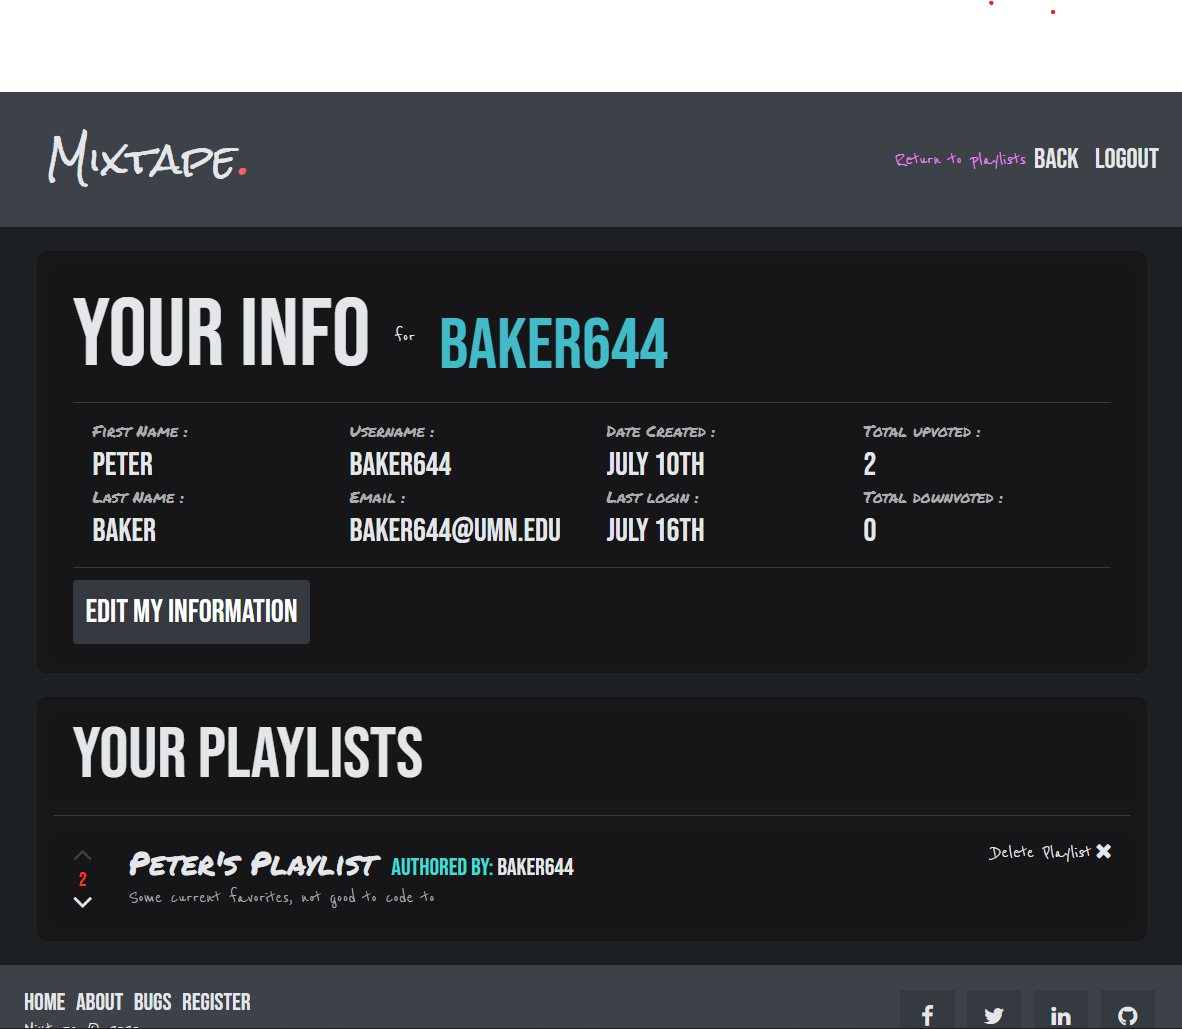
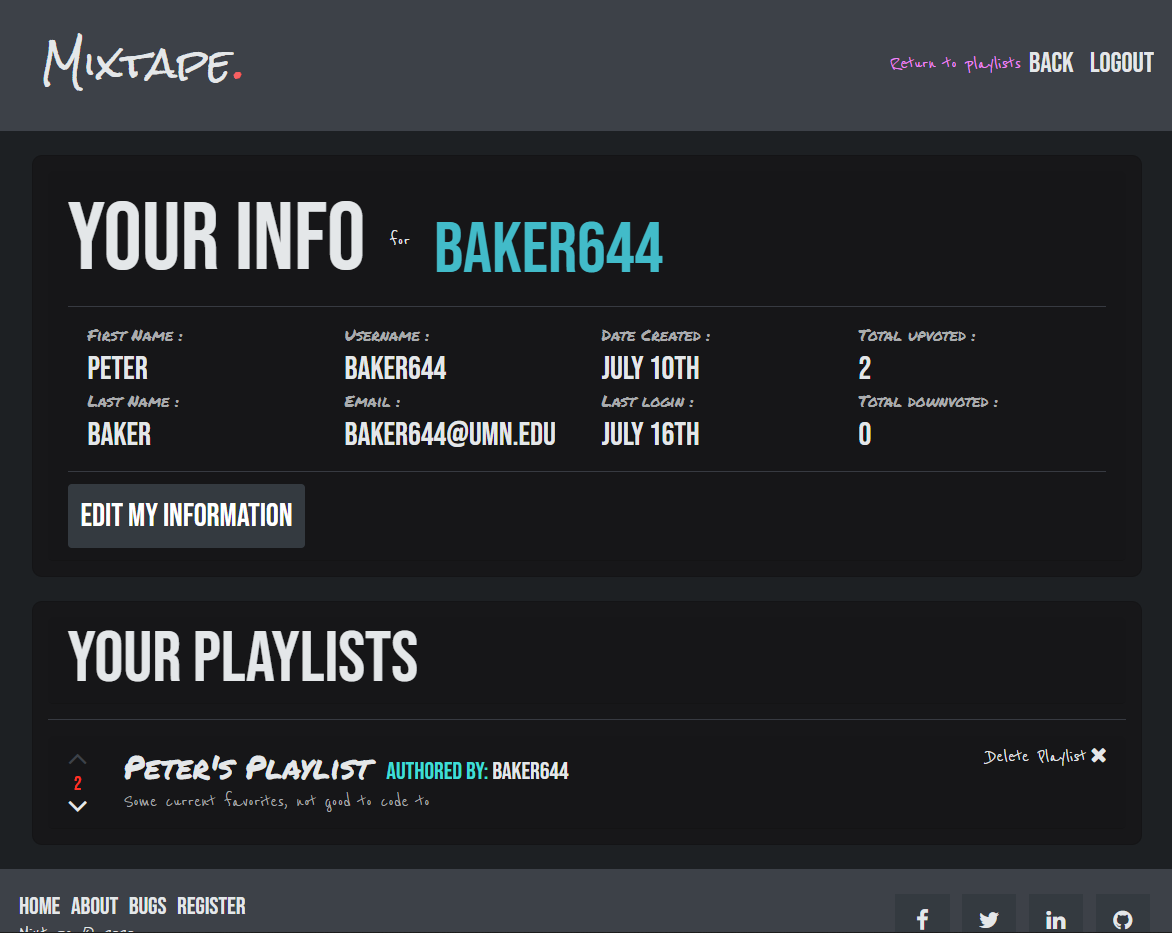
Mobile tweak to user settings

diff --git a/app/public/assets/css/style.css b/app/public/assets/css/style.css
@@ -317,6 +317,9 @@ input:-webkit-autofill:active  {
     .card-gap {
         margin-top: 3rem;
     }
+    .display-3 {
+        text-align: center !important;
+    }
 }
 
 @media screen and (max-width: 576px) {
@@ -334,6 +337,9 @@ input:-webkit-autofill:active  {
 @media screen and (max-width: 480px) {
     .container {
         padding: 0;
+    }
+    .display-3 {
+        font-size: 3.5rem !important;
     }
     .card {
         border-radius: 0 !important;
